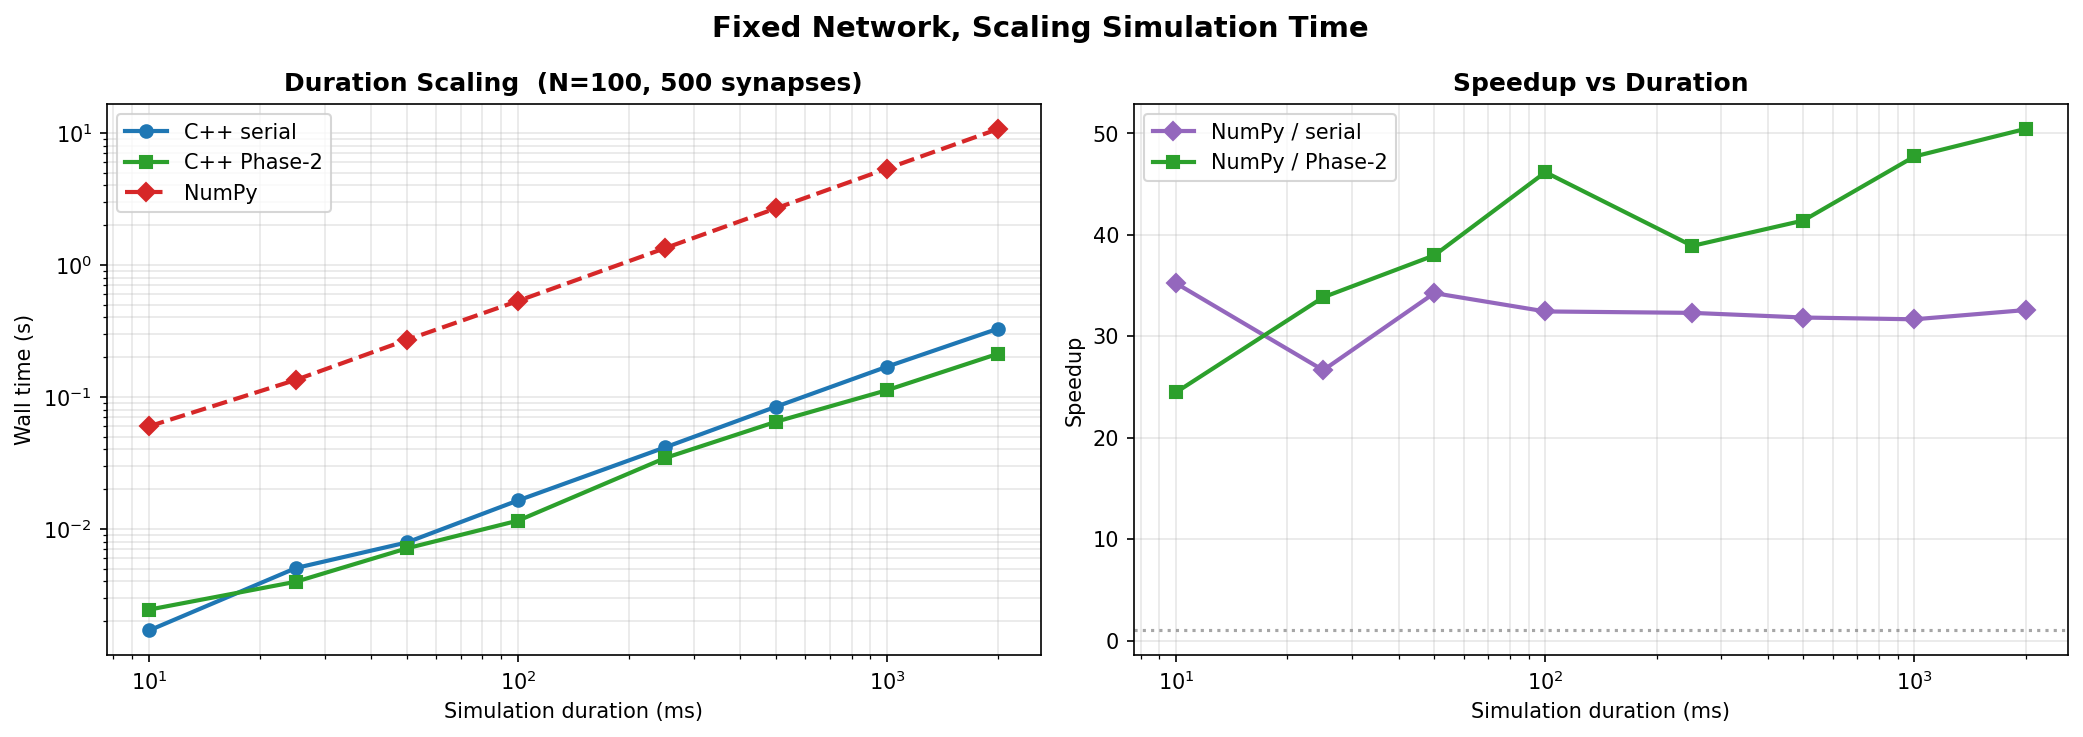
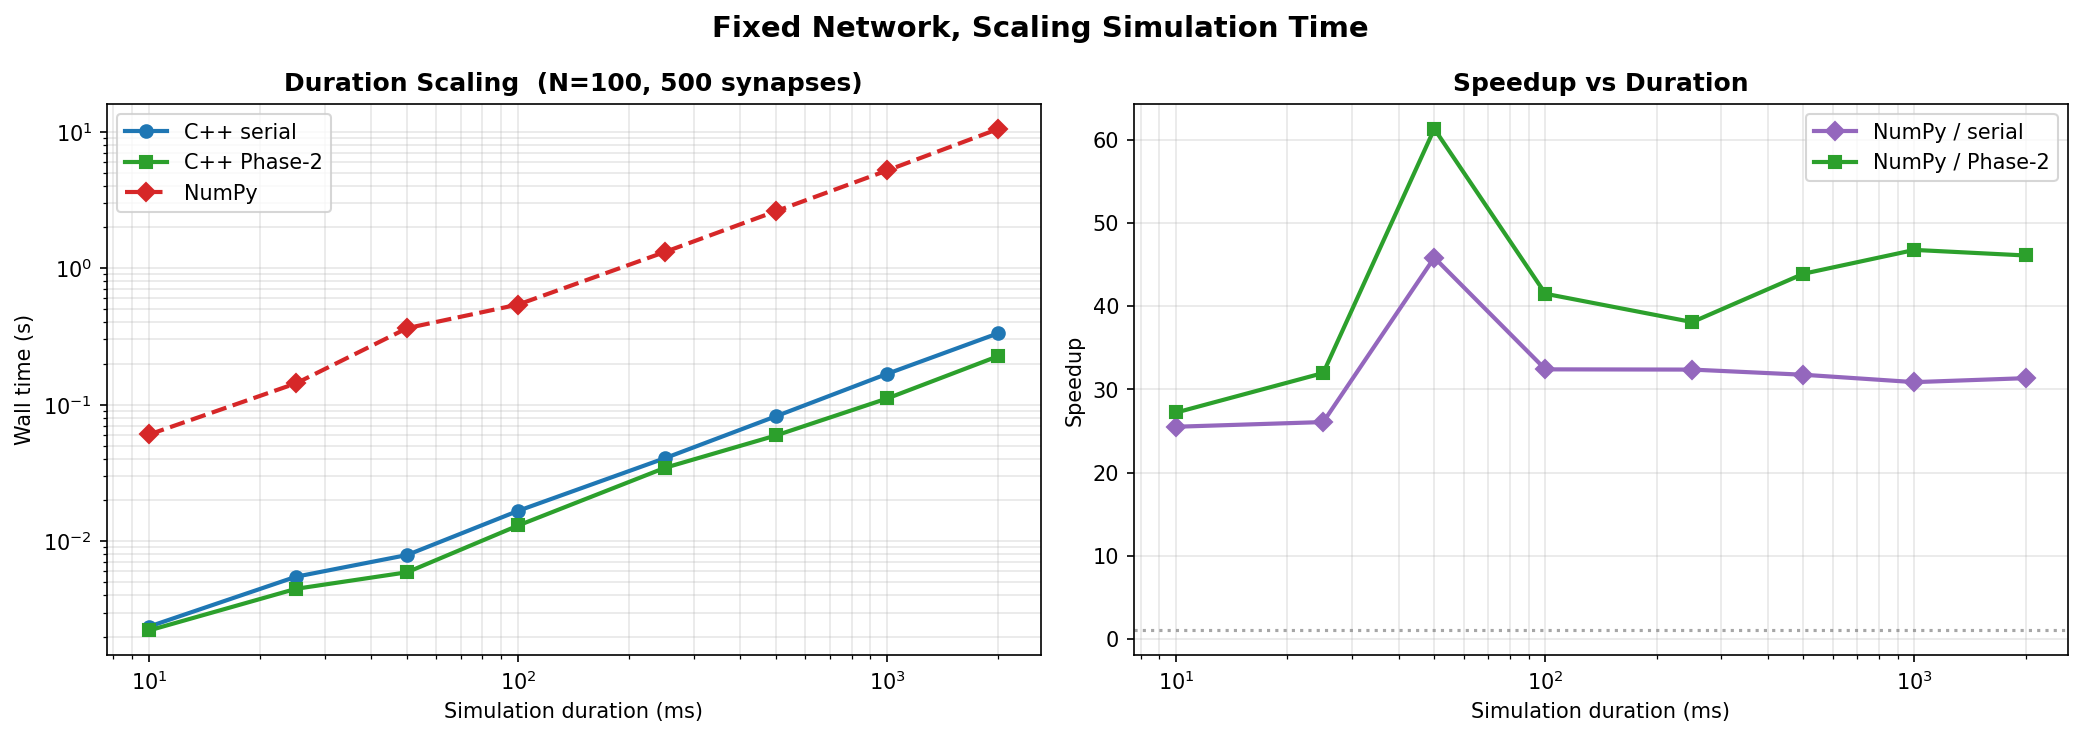
small updates to threading benchmark graphs

diff --git a/examples/benchmark_network_threading.py b/examples/benchmark_network_threading.py
@@ -565,7 +565,7 @@ def plot_timing(results: Dict, figs_dir: Path):
         ax.loglog(sc, data["serial"], "o-",  color=COLOR_SERIAL,
                   linewidth=2, markersize=6, label="C++ serial")
         ax.loglog(sc, data["phase2"], "s-",  color=COLOR_PHASE2,
-                  linewidth=2, markersize=6, label="C++ Phase-2")
+                  linewidth=2, markersize=6, label="C++ delay-parallel")
         if data["numpy"]:
             ax.loglog(sn, data["numpy"], "D--", color=COLOR_NUMPY,
                       linewidth=2, markersize=6, label="NumPy")
@@ -577,8 +577,8 @@ def plot_timing(results: Dict, figs_dir: Path):
         ax.grid(True, which="both", alpha=0.3)
 
     fig.suptitle(
-        f"Network Simulation: Serial vs Phase-2 Threading vs NumPy\n"
-        f"({N_POP} populations, {DELAY_MS} ms inter-group delay)",
+        f"Network Simulation: Serial vs Delay-Parallel Threading vs NumPy\n"
+        f"({N_POP} populations, {DELAY_MS} ms inter-group delay, one thread group per population)",
         fontsize=14, fontweight="bold",
     )
     fig.tight_layout()
@@ -590,30 +590,21 @@ def plot_timing(results: Dict, figs_dir: Path):
 
 def plot_speedup(results: Dict, figs_dir: Path):
     """
-    1×3 speedup panels:
+    1×2 speedup panels:
       [0] NumPy / serial
       [1] NumPy / Phase-2
-      [2] serial / Phase-2  (threading gain)
     """
-    fig, axes = plt.subplots(1, 3, figsize=(18, 5))
+    fig, axes = plt.subplots(1, 2, figsize=(12, 5))
     markers = ["o", "s", "^", "D"]
     colors  = ["tab:blue", "tab:orange", "tab:green", "tab:red"]
 
-    ax_np_s  = axes[0]
-    ax_np_p  = axes[1]
-    ax_p2_s  = axes[2]
+    ax_np_s = axes[0]
+    ax_np_p = axes[1]
 
     for idx, (topo_name, data) in enumerate(results.items()):
-        sc = data["sizes_cpp"]
         sn = data["sizes_numpy"]
         mk = f"{markers[idx]}-"
         col = colors[idx]
-
-        # Phase-2 threading speedup (serial / phase2) — always available
-        sp_p2 = [s / p if p > 0 else 0.0
-                 for s, p in zip(data["serial"], data["phase2"])]
-        ax_p2_s.plot(sc, sp_p2, mk, color=col,
-                     linewidth=2, markersize=7, label=topo_name)
 
         if data["numpy"] and sn:
             n_pts = len(data["numpy"])
@@ -629,9 +620,8 @@ def plot_speedup(results: Dict, figs_dir: Path):
                          linewidth=2, markersize=7, label=topo_name)
 
     panel_cfg = [
-        (ax_np_s,  "NumPy vs C++ Serial",     "Speedup  (NumPy / serial)"),
-        (ax_np_p,  "NumPy vs C++ Phase-2",    "Speedup  (NumPy / Phase-2)"),
-        (ax_p2_s,  "Phase-2 Threading Gain",  "Speedup  (serial / Phase-2)"),
+        (ax_np_s, "NumPy vs C++ Serial",  "Speedup  (NumPy / serial)"),
+        (ax_np_p, "NumPy vs C++ Delay-Parallel", "Speedup  (NumPy / delay-parallel)"),
     ]
     for ax, title, ylabel in panel_cfg:
         ax.axhline(y=1.0, color="gray", linestyle=":", alpha=0.7, label="Parity")
@@ -642,7 +632,7 @@ def plot_speedup(results: Dict, figs_dir: Path):
         ax.legend(fontsize=9)
         ax.grid(True, which="both", alpha=0.3)
 
-    fig.suptitle("Speedup Comparison: Threading vs Python Baseline",
+    fig.suptitle("Speedup Comparison: Delay-Parallel Threading vs Python Baseline",
                  fontsize=14, fontweight="bold")
     fig.tight_layout()
     out = figs_dir / "benchmark_threading_speedup.png"
@@ -670,7 +660,7 @@ def plot_isolation(syn_data: Dict, neuron_data: Dict, figs_dir: Path):
     ax.legend(fontsize=9)
     ax.grid(True, which="both", alpha=0.3)
 
-    # --- Top-right: synapse scaling, speedup (NumPy/serial and NumPy/Phase-2) ---
+    # --- Top-right: synapse scaling, speedup (NumPy/serial and NumPy/delay-parallel) ---
     ax = axes[0, 1]
     sp_np_s = [n / s if s > 0 else 0.0
                for n, s in zip(syn_data["numpy"], syn_data["serial"])]
@@ -681,7 +671,7 @@ def plot_isolation(syn_data: Dict, neuron_data: Dict, figs_dir: Path):
                 label="NumPy / serial")
     ax.semilogx(syn_data["synapse_counts"], sp_np_p, "s-",
                 color=COLOR_PHASE2, linewidth=2, markersize=6,
-                label="NumPy / Phase-2")
+                label="NumPy / delay-parallel")
     ax.axhline(y=1.0, color="gray", linestyle=":", alpha=0.7)
     ax.set_xlabel("Number of synapses")
     ax.set_ylabel("Speedup")
@@ -706,7 +696,7 @@ def plot_isolation(syn_data: Dict, neuron_data: Dict, figs_dir: Path):
     ax.legend(fontsize=9)
     ax.grid(True, which="both", alpha=0.3)
 
-    # --- Bottom-right: neuron scaling, speedup (NumPy/serial and NumPy/Phase-2) ---
+    # --- Bottom-right: neuron scaling, speedup (NumPy/serial and NumPy/delay-parallel) ---
     ax = axes[1, 1]
     if neuron_data["numpy"]:
         n_pts = len(neuron_data["numpy"])
@@ -721,7 +711,7 @@ def plot_isolation(syn_data: Dict, neuron_data: Dict, figs_dir: Path):
                     label="NumPy / serial")
         ax.semilogx(neuron_data["numpy_N_totals"], sp_np_p_n, "s-",
                     color=COLOR_PHASE2, linewidth=2, markersize=6,
-                    label="NumPy / Phase-2")
+                    label="NumPy / delay-parallel")
     ax.axhline(y=1.0, color="gray", linestyle=":", alpha=0.7)
     ax.set_xlabel("Total neurons")
     ax.set_ylabel("Speedup")
@@ -730,7 +720,7 @@ def plot_isolation(syn_data: Dict, neuron_data: Dict, figs_dir: Path):
     ax.legend(fontsize=9)
     ax.grid(True, which="both", alpha=0.3)
 
-    fig.suptitle("Isolating Scaling: Neurons vs Synapses  (Threading Benchmark)",
+    fig.suptitle("Isolating Scaling: Neurons vs Synapses  (Delay-Parallel Threading)",
                  fontsize=14, fontweight="bold")
     fig.tight_layout()
     out = figs_dir / "benchmark_threading_isolation.png"
